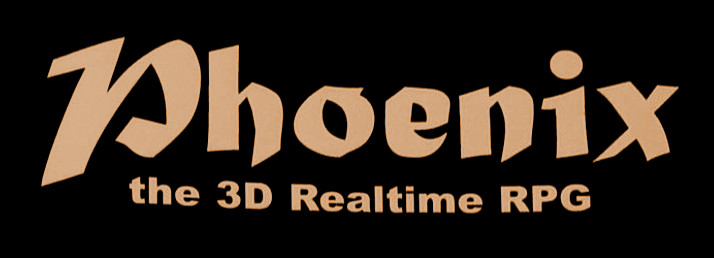
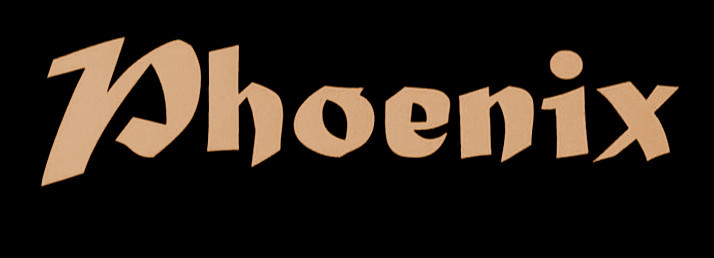
little link + header + image fix

Changed region(s): [[0.3081, 0.6822, 0.8319, 0.8372], [0.1849, 0.6822, 0.2773, 0.8062]]

diff --git a/postrelease/interviews/TomPutzki_13_02_2021_Part1.html b/postrelease/interviews/TomPutzki_13_02_2021_Part1.html
@@ -42,13 +42,13 @@ title: Tom Putzki zum 20. Jubiläum
 
     <p><strong>Florian:</strong> Das ist doch schön... Also, eine erste Frage wäre, wir haben ja diesen Namen "Phoenix" gewählt für unser Projekt, weil wir auch dachten, dann erinnert ihr euch direkt daran und wisst was damit gemeint ist. Ursprünglich war ja der Arbeitstitel "Orpheus".</p>
 
-    <a href="../"><img src="TomPutzki20thAnniversary/orpheus.jpg" alt="Orpheus Schriftzug von Mike"></a>
+    <a href="../../documents/OrpheusDocs.html"><img src="TomPutzki20thAnniversary/orpheus.jpg" alt="Orpheus Schriftzug von Mike"></a>
 
     <p><strong>Tom:</strong> Ja, zu Zeiten von <em>Greenwood Entertainement</em> war das Orpheus, richtig.</p>
 
     <p><strong>Florian:</strong> Okay. Da hab ich mich gefragt, wie kam es dazu, dass ihr später diesen Arbeitstitel doch nochmal umgeworfen habt und dann das ganze "Phoenix" genannt habt.</p>
 
-    <img src="TomPutzki20thAnniversary/phoenix.jpg" alt="Phoenix Schriftzug">
+    <a href="../../documents/PhoenixDocs.html"><img src="TomPutzki20thAnniversary/phoenix.jpg" alt="Phoenix Schriftzug"></a>
 
     <p><strong>Tom:</strong> Naja, also alle Titel die bei Greenwood in der Entwicklung waren, haben einen Namen aus der griechischen Mythologie als Arbeitstitel erhalten, alle. Bei unserem Projekt, das wir da schon leicht angefangen haben, mit einigen Dokumenten, einigen Ideen und so weiter war es halt Orpheus.<br>
     Greenwood gehörte der FunSoft-Gruppe an und dann gab es Probleme mit der FunSoft-Gruppe, der Geldhahn bei Greenwood wurde zugesperrt. Wir haben halt zusammengessesen und überlegt was man tun kann, wie wir überleben können und dann kam es zu einem Management Buyout der Greenwood Chefs aus der Funsoft-Gruppe und aus rechtlichen Gründen durch diesen Management Buyout bedingt, konnten wir dieses Unternehmen Greenwood nicht mehr weiterführen. Nur noch das Label Greenwood. Sozusagen ein Greenwood Spiel aber nicht mehr Greenwood die Firma. Und so haben wir uns halt zusammengesetzt und neue Unternehmen gegründet. Und bei Alex, Mike, Stefan und mir war das halt <em>Piranha Bytes</em>. Und mit dem Start in das eigene Unternehmen, was eben zum Oktober '97 begann, haben wir dann natürlich auch einen neuen Projektnamen vergeben, wie "Phönix aus der Asche" natürlich.</p>

diff --git a/postrelease/20thanniversary/index.html b/postrelease/20thanniversary/index.html
@@ -84,8 +84,6 @@ title: 20th Anniversary Special
   <a href="../../conceptart/ralfmarczinczik/oldcamp.html"><img class="gifts" src="img/ralf-oldcamp.jpg" alt="Ralf Old Camp Concept Arts"></a>
   <a href="../../conceptart/ralfmarczinczik/prison.html"><img class="gifts" src="img/ralf-prison.jpg" alt="Ralf Prison Concept Arts"></a>
 
-
-
 </article>
 
 <style>

diff --git a/documents/OrpheusDocs.html b/documents/OrpheusDocs.html
@@ -4,7 +4,7 @@ title: Orpheus Design Documents
 
 <article class="docs">
   <h1><a href="../">../</a> Orpheus Design Documents</h1>
-  <h3>by Mike Hoge</h3>
+  <h2>by Mike Hoge</h2>
 
   <img class="title" src="orpheus/orpheus.jpg" alt="Orpheus Title Sketch by Mike">
   
